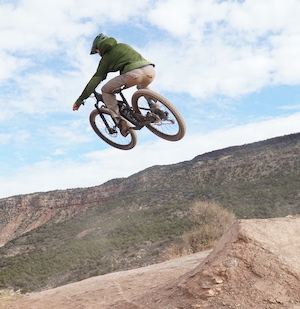
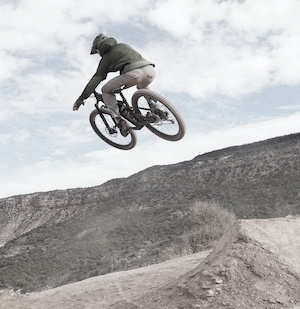
changed heading and color theme

diff --git a/styles/styles.css b/styles/styles.css
@@ -1,7 +1,7 @@
 :root {
-    --dk-blue: #03363D;
-    --md-blue: #174D4D;
-    --lt-gray: #F8F9F9;
+    --lt-gray: #b4b4b4;
+    --md-gray: #525252;
+    --dk-gray: #161616;
 }
 
 * {
@@ -10,43 +10,30 @@
 
 .body {
     background-color: white;
-    color: var(--lt-gray);
+    color: var(--dk-gray);
 }
 
-#profile-pic{
-    height: 50%;
-    min-height: 500px;
-    background-position: left;
+.head-content {
+    background-image: url(/images/bkg2.jpg);
+    background-size: 100%;
     background-repeat: no-repeat;
-    background-size: cover;
-    border-radius: 15px;
-    position: relative;
-    top: 10px;
-    padding: 10px;
-    margin: 20px;
+    height: 750px;
 }
 
- h1 {
+.title {
+    padding-top: 30px;
+    font-size: 70px;
     text-align: center;
-    text-transform: uppercase;
-    font-size: 3em;
-    position: absolute;
-    margin-left: 20px;
-    top: 44%;
-    left: 70%;
-    transform: translate(-50%, -50%);
+    color: white;
  }
 
  nav {
      text-align: center;
-     background-color: var(--dk-blue);
-     padding: 15px;
-     margin: 20px 0;
  }
  
  nav a {
     font-weight: bold;
-    font-size: 25px;
+    font-size: 20px;
     color: white;
     text-decoration: none;
     border-bottom: 1px solid transparent;
@@ -60,23 +47,27 @@
  }
 
 .about-wrap {
-    margin-top: 60px;
-    /* padding-bottom: 100px; */
-    margin-bottom: 140px;
+    background-color: var(--dk-gray);
+    padding-top: 60px;
+    padding-bottom: 140px;
 }
 
 h2 {
      text-align: center;
-     color: black;
+     color: white;
      text-transform: uppercase;
      padding-top: 55px;
      height: 150px;
      margin: 30px 0;
  }
 
+ .dk-h2 {
+     color: var(--dk-gray);
+ }
+
  .major-col, .school-col, .year-col {
-    background-color: var(--dk-blue);
-    color: white;
+    background-color: white;
+    color: black;
 
 }
 
@@ -105,15 +96,14 @@ h2 {
 }
 
 .cs-col, .sft-col, .uvu-col {
-    color: black;
-    background-color: white;
+    color: white;
 }
 
 .skills-wrap {
     color: white;
     padding-top: 40px;
     padding-bottom: 120px;
-    background-color: var(--lt-gray);
+    background-color: white;
 }
 
 #skills-content div {
@@ -122,24 +112,20 @@ h2 {
 
 .skill-title {
     z-index: 20;
-    background-color: var(--md-blue);
+    background-color: var(--dk-gray);
     margin-left: 60px;
 }
 
 .skill-bar {
-    background-color: var(--dk-blue);
+    background-color: var(--md-gray);
 }
 
 .project-wrap {
     color: white;
-    background-color: var(--dk-blue);
+    background-color: var(--dk-gray);
     padding-top: 40px;
     padding-bottom: 60px;
     margin-bottom: 40px;
-}
-
-#project-head {
-    color: white;
 }
 
 #carousel-container {
@@ -169,7 +155,7 @@ h2 {
 
 .interests-wrap {
     color: white;
-    padding-bottom: 60px;
+    margin-bottom: 130px;
 }
 
 .bike, .hike, .climb {
@@ -191,73 +177,89 @@ h2 {
     width: 300px;
 }
 
+.footer {
+    padding: 15px 0;
+    background-color: var(--dk-gray);
+}
+
+.footer a {
+    text-decoration: none;
+    padding: 10px 20px;
+    font-size: 30px;
+    color: white;
+}
+
+.footer a:hover {
+    cursor: pointer;
+    color: white;
+}
+
 @media screen and (max-width: 1200px) {
+    .img-cover {
+        margin-bottom: 30px;
+        margin-left: 20%;
+    }
 
-.img-cover {
-    margin-bottom: 30px;
-    margin-left: 20%;
+    .hike-col {
+        display: none;
+    }
+
+    .img2 {
+        display: none;
+    }
+
+    #profile-pic {
+        width: 50%;
+        min-height: 200px;
+    }
+
+    h1 {
+        top: 35%;
+        margin-bottom: 30px;
+    }
 }
 
-.hike-col {
-    display: none;
-}
 
-.img2 {
-    display: none;
-}
-
-#profile-pic {
-    width: 50%;
-    min-height: 200px;
-}
-
-h1 {
-    top: 35%;
-    margin-bottom: 30px;
-}
-
-}
 
 @media screen and (max-width: 1100px) {
-
-.skill-title {
-    background-color: var(--dk-blue);
+    .skill-title {
+        background-color: var(--dk-blue);
+    }
 }
 
-}
+
 
 @media screen and (max-width: 770px) {
+    .hike-col {
+        display: flex;
+    }
 
-.hike-col {
-    display: flex;
+    h1 {
+        top: 20%;
+    }
 }
 
-h1 {
-    top: 20%;
-}
-}
+
 
 @media screen and (max-width: 500px) {
+    .projectImg {
+        max-width: 300px;
+        max-height: 200px;
+    }
 
-.projectImg {
-    max-width: 300px;
-    max-height: 200px;
-}
+    .img-cover {
+        margin-left: 10%;
+    }
 
-.img-cover {
-    margin-left: 10%;
-}
+    nav a {
+        font-size: 15px;
+    }
 
-nav a {
-    font-size: 15px;
-}
+    #carousel-container {
+        height: 480px;
+    }
 
-#carousel-container {
-    height: 480px;
-}
-
-.edu {
-    font-size: 15px;
-}
-
+    .edu {
+        font-size: 15px;
+    }
 }

diff --git a/index.html b/index.html
@@ -14,18 +14,18 @@
 <body>
     <div class="content-body">
         <div class="head-content">
-            <h1>Dalton Bunker</h1>
-            <img id="profile-pic" src="images/main.jpeg" alt="profile picture">
+            <div class="title">DALTON BUNKER</div>
             <nav>
-                <a href="#">Home</a>
                 <a href="#about-id">About</a>
                 <a href="#skills-content">Skills</a>
+                <a href="#projects-id">Projects</a>
                 <a href="#interests-id">Interests</a>
             </nav>
+            
         </div> 
         <div class="main-content">
             <div class="content-item about-wrap" id="about-id">
-                <h2>About</h2>
+                <h2 class="lt-h2">About</h2>
                 <div class="container personal-info">
                     <div class="row">
                         <div class="col major-col text-center">
@@ -46,7 +46,7 @@
                 </div>
             </div>
             <div class="content-item skills-wrap" id="skills-content">
-                <h2 id="skills-id">Skills</h2>
+                <h2 class="dk-h2" id="skills-id">Skills</h2>
                 <div class="row python">
                     <div class="col-1 skill-title">Python</div>
                     <div class="col-8 skill-bar"></div>
@@ -69,9 +69,13 @@
                 </div>
             </div>
             <div class="content-item project-wrap" id="carousel-container">
-                <h2 id="project-head">Projects</h2>
+                <h2 class="lt-h2" id="projects-id">Projects</h2>
                 <div id="projectCarousel" class="carousel slide" data-bs-ride="carousel">
                     <div class="carousel-inner"></div>
+                        <div class="carousel-item text-center calc-wrap">
+                            <img src="/images/calc.png" alt="graph" class="projectImg"><img src="/images/calc_2.png" alt="graph 2" class="img2">
+                            <div class="project-title text-center project-content">React</div>
+                        </div>
                         <div class="carousel-item active text-center">
                             <img src="/images/movie_home.png" alt="movie home" class="projectImg"><img src="/images/movie_form.png" alt="movie form" class="img2">
                             <div class="project-title text-center project-content">Javascript, CSS, HTML</div>
@@ -79,10 +83,6 @@
                         <div class="carousel-item text-center">
                             <img src="/images/interval_timer.png" alt="interval home" class="projectImg"><img src="/images/interval_2.png" alt="interval form" class="img2">                        
                             <div class="project-title text-center project-content">Javascript, CSS, HTML</div>
-                        </div>
-                        <div class="carousel-item text-center calc-wrap">
-                            <img src="/images/calc.png" alt="graph" class="projectImg"><img src="/images/calc_2.png" alt="graph 2" class="img2">
-                            <div class="project-title text-center project-content">React</div>
                         </div>
                         <div class="carousel-indicators">
                             <button type="button" data-bs-target="#projectCarousel" data-bs-slide-to="0" class="active" aria-current="true" aria-label="Slide 1"></button>
@@ -101,7 +101,7 @@
                 
             </div>
             <div class="content-item interests-wrap">
-                <h2 id="interests-id">Personal Interests</h2>
+                <h2 class="dk-h2" id="interests-id">Personal Interests</h2>
                 <div class="container">
                     <div class="row interests-container">
                         <div class="col bike-col">
@@ -124,6 +124,9 @@
                         </div>
                     </div>
                 </div>
+            </div>
+            <div class="footer text-center">
+                <a href="#">&uarr;</a>
             </div>
     </div>
     <script src="/js/controller.js" type="text/javascript"></script>
